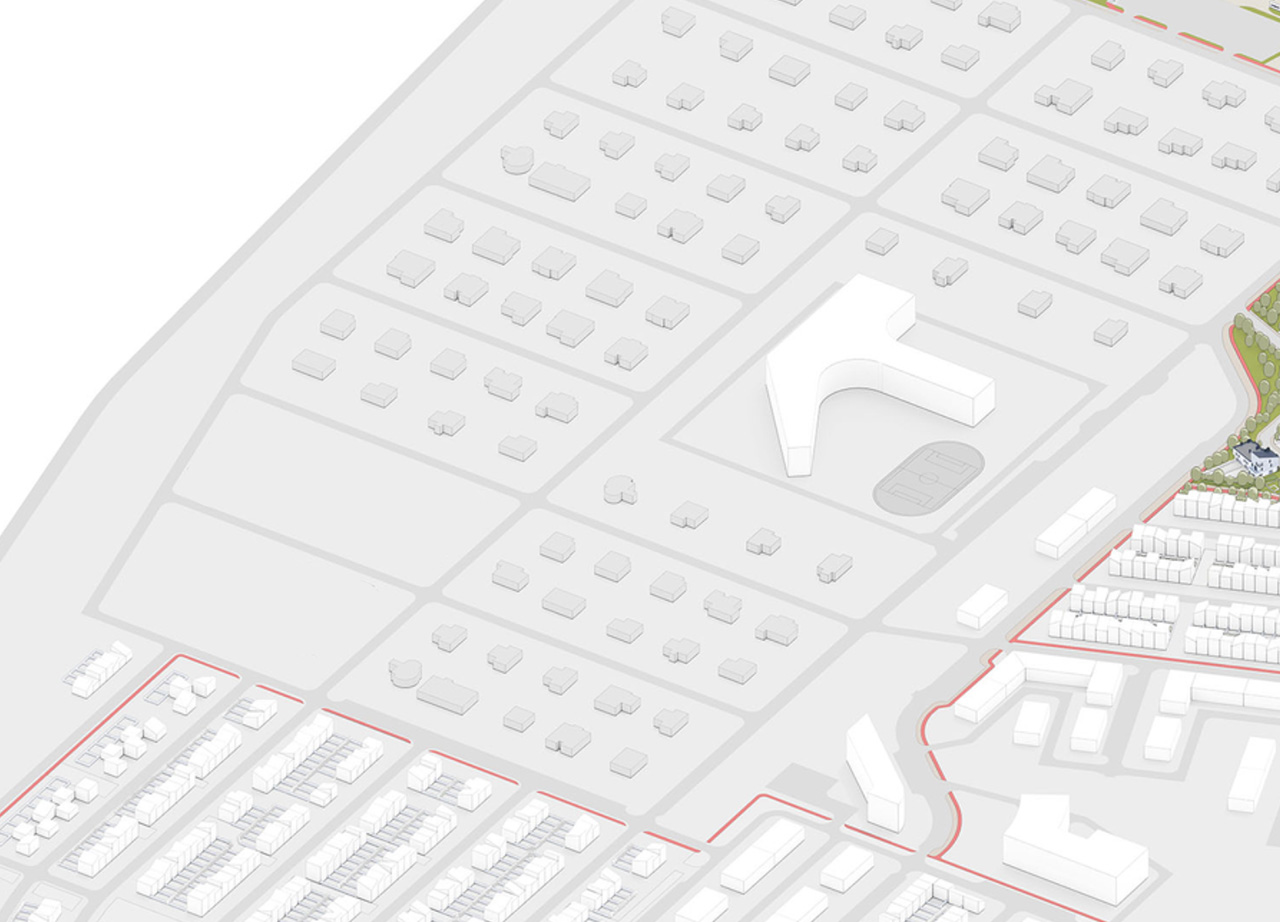
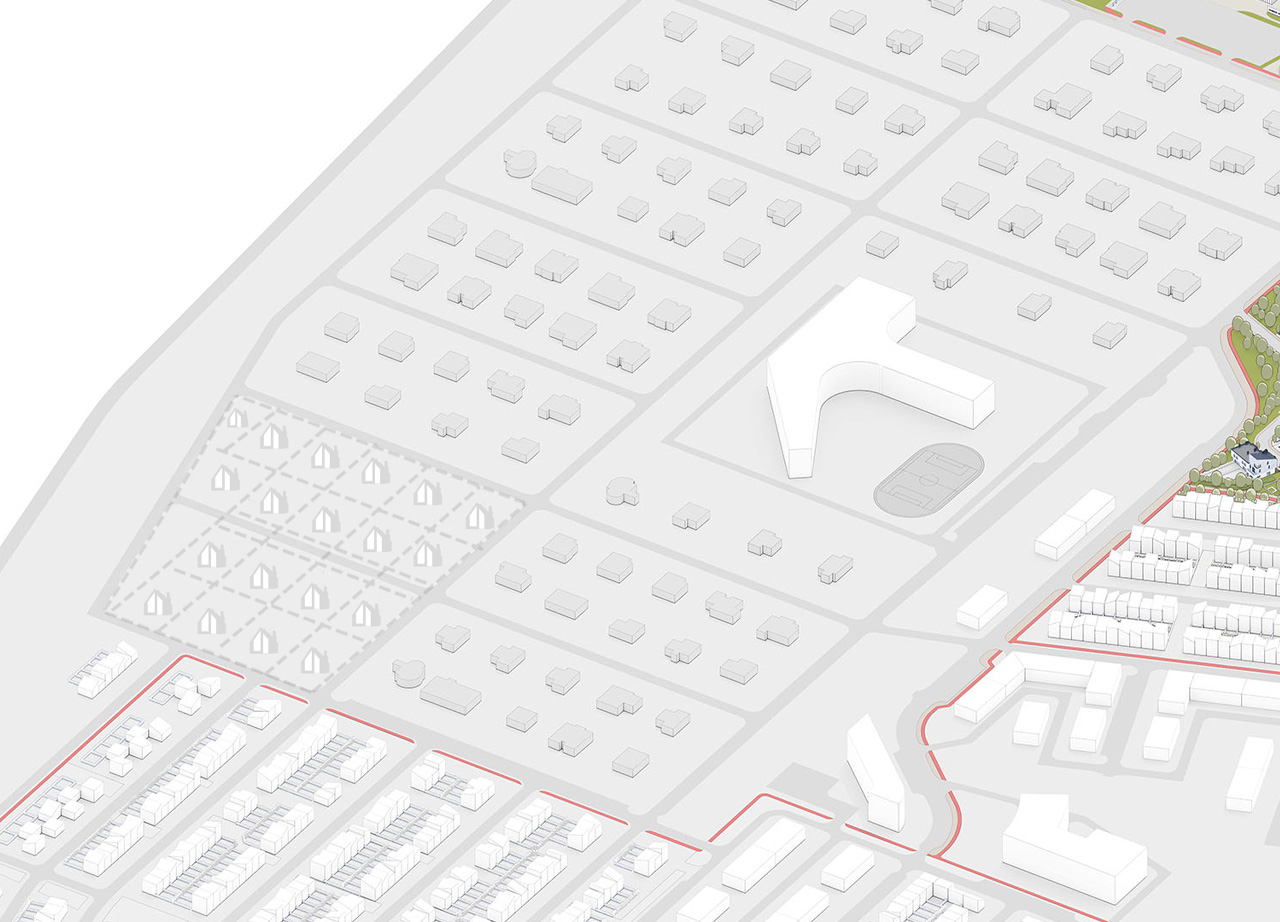
new mapped image

diff --git a/src/mocks/chooseHouse.ts b/src/mocks/chooseHouse.ts
@@ -16,7 +16,7 @@ export const ChooseHouseMock: TChooseHouse = {
         fillColor: '#ff000061',
         preFillColor: '#ff000061',
         strokeColor: 'black',
-        coords: [354, 552, 402, 511, 438, 526, 388, 573],
+        coords: [113, 611, 166, 565, 215, 585, 159, 629],
       },
       {
         id: 'house-2',
@@ -24,7 +24,7 @@ export const ChooseHouseMock: TChooseHouse = {
         fillColor: '#00800073',
         preFillColor: '#00800073',
         strokeColor: 'black',
-        coords: [296, 520, 343, 477, 370, 491, 320, 533],
+        coords: [162, 629, 216, 585, 272, 606, 215, 652],
       },
       {
         id: 'house-3',
@@ -32,7 +32,15 @@ export const ChooseHouseMock: TChooseHouse = {
         fillColor: '#00800073',
         preFillColor: '#00800073',
         strokeColor: 'black',
-        coords: [243, 495, 293, 450, 318, 462, 265, 506],
+        coords: [216, 652, 271, 606, 322, 625, 268, 674],
+      },
+      {
+        id: 'house-4',
+        shape: 'poly',
+        fillColor: '#00800073',
+        preFillColor: '#00800073',
+        strokeColor: 'black',
+        coords: [269, 674, 320, 625, 370, 644, 316, 694],
       },
     ],
   },